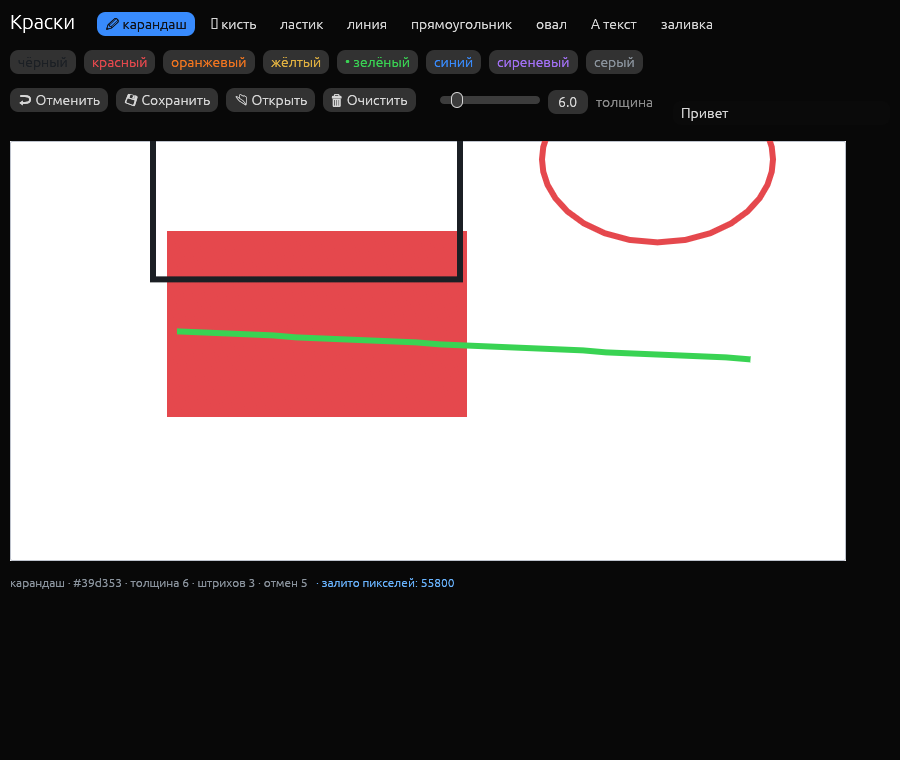
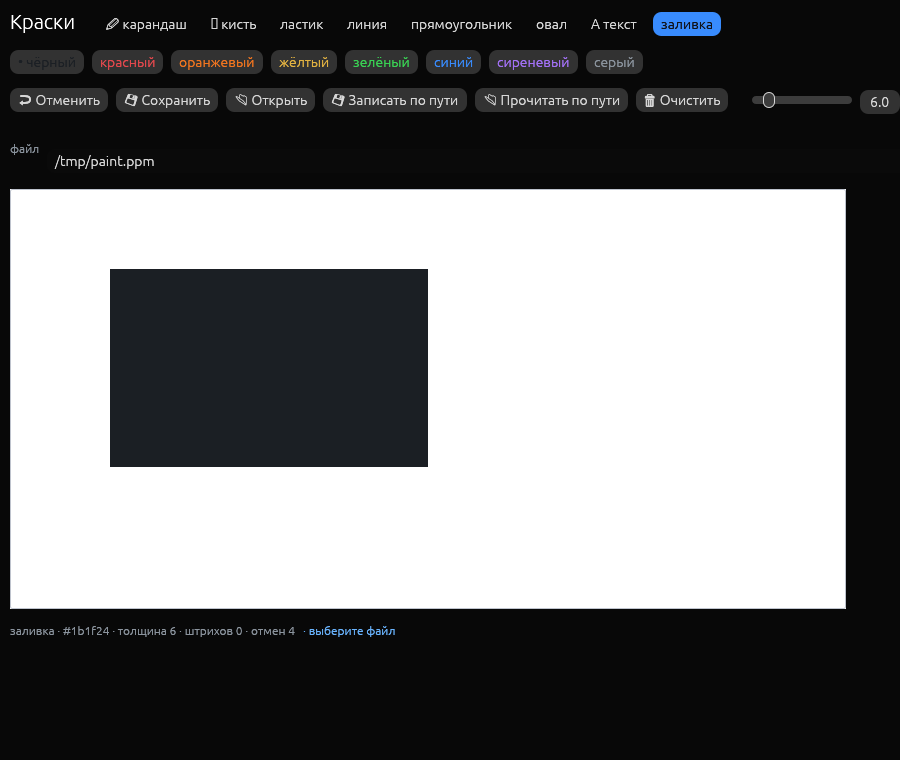
Краски: путь и F5/F6/F7 — проверка записи и чтения без капризного диалога
- строка «файл» с путём (правится), F5 — записать по пути, F6 — прочитать,
  F7 — системный диалог открытия (дубли Ctrl+S / Ctrl+O);
- скрипт check-paint.py проверяет четыре эффекта: заливку контура, запись
  файла, round-trip (очистка → чтение → картинка вернулась) и диалог;
- урок в скилл: системный диалог не принимает синтетический ввод, поэтому
  у приложения должен быть путь + хоткей, а эффект проверяется файлом;
- урок про xdotool: key --window теряет модификаторы, надёжнее
  windowactivate + глобальные клавиши и одиночные F-клавиши.

Все четыре проверки works, паник нет. Снимок docs/paint.png обновлён.

diff --git a/docs/index.html b/docs/index.html
@@ -177,7 +177,9 @@
   <h2>Демо: Краски</h2>
   <p class="sub">Полноценный Paint, целиком описанный моделью: восемь инструментов, палитра, толщина, отмена
     по Ctrl+Z, сохранение и открытие через системный диалог, горячие клавиши 1–8. Заливка закрашивает только
-    внутренность замкнутого контура: холст — растр, стены строятся по всем штрихам, обход в ширину от точки клика.</p>
+    внутренность замкнутого контура: холст — растр, стены строятся по всем штрихам, обход в ширину от точки клика.
+    Путь к файлу виден в модели, <code>F5</code> пишет, <code>F6</code> читает, <code>F7</code> зовёт диалог —
+    поэтому и запись, и чтение проверяются скриптом, а не «на глаз».</p>
   <div class="shot"><img src="paint.png" alt="окно приложения Краски: панель инструментов, палитра, белый холст с фигурами"></div>
   <div class="term" style="margin-top:16px">
 <span class="p">$</span> lazr lisp examples/paint.lisp --to /tmp/paint

diff --git a/scripts/check-paint.py b/scripts/check-paint.py
@@ -1,9 +1,10 @@
 #!/usr/bin/env python3
-"""Живая проверка Краски: контур → заливка → пиксели → системный диалог.
+"""Живая проверка Краски: контур → заливка → пиксели → файл → чтение → диалог.
 
-Проверяет эффект, а не отсутствие паники:
-  * прямоугольник рисуется в заданных точках;
-  * заливка красит только внутренность контура (пиксель снаружи — белый);
+Проверяется эффект, а не отсутствие паники:
+  * заливка красит только внутренность замкнутого контура;
+  * запись по пути создаёт файл, который читается обратно (round-trip);
+  * чтение по пути возвращает картинку на холст;
   * Ctrl+O поднимает системный диалог (процесс zenity).
 """
 import os
@@ -12,30 +13,30 @@ import subprocess
 import sys
 import time
 
-DISPLAY = ":0"
-ENV = dict(os.environ, DISPLAY=DISPLAY)
+ENV = dict(os.environ, DISPLAY=":0")
+TARGET = "/tmp/paint.ppm"  # путь по умолчанию у приложения
 
 
 def run(cmd, **kw):
     return subprocess.run(cmd, shell=isinstance(cmd, str), capture_output=True, text=True, env=ENV, **kw)
 
 
-def window(title: str) -> tuple[str, int, int, int, int]:
-    ids = run(["xdotool", "search", "--onlyvisible", "--class", ".*"]).stdout.split()
-    for wid in ids:
-        name = run(["xdotool", "getwindowname", wid]).stdout.strip()
-        if name == title:
-            geo = run(["xdotool", "getwindowgeometry", wid]).stdout
-            pos = re.search(r"Position: (\d+),(\d+)", geo)
-            size = re.search(r"Geometry: (\d+)x(\d+)", geo)
-            return wid, int(pos.group(1)), int(pos.group(2)), int(size.group(1)), int(size.group(2))
+def find_window(title: str) -> str:
+    for wid in run(["xdotool", "search", "--onlyvisible", "--class", ".*"]).stdout.split():
+        if run(["xdotool", "getwindowname", wid]).stdout.strip() == title:
+            return wid
     raise SystemExit(f"окно «{title}» не найдено")
+
+
+def geometry(wid: str):
+    geo = run(["xdotool", "getwindowgeometry", wid]).stdout
+    pos = re.search(r"Position: (\d+),(\d+)", geo)
+    size = re.search(r"Geometry: (\d+)x(\d+)", geo)
+    return int(pos.group(1)), int(pos.group(2)), int(size.group(1)), int(size.group(2))
 
 
 def read_ppm(path: str):
     data = open(path, "rb").read()
-    if not data.startswith(b"P6"):
-        raise SystemExit("не PPM — конвертация не удалась")
     fields, offset = [], 2
     while len(fields) < 3:
         while data[offset : offset + 1].isspace():
@@ -49,45 +50,9 @@ def read_ppm(path: str):
     return w, h, data[offset : offset + w * h * 3]
 
 
-def pixel(pixels: bytes, w: int, x: int, y: int):
+def pixel(pixels, w, x, y):
     i = (y * w + x) * 3
     return tuple(pixels[i : i + 3])
-
-
-def white_bbox(w: int, h: int, pixels: bytes):
-    """Рамка холста: строки и столбцы с длинными белыми пробегами.
-
-    Просто min/max белых пикселей не годится — белым бывает и текст заголовка.
-    """
-    def is_white(x: int, y: int) -> bool:
-        r, g, b = pixel(pixels, w, x, y)
-        return r > 240 and g > 240 and b > 240
-
-    rows = []
-    for y in range(h):
-        count = sum(1 for x in range(0, w, 2) if is_white(x, y))
-        if count * 2 > w * 0.5:
-            rows.append(y)
-    if not rows:
-        raise SystemExit("белый холст не найден")
-    top, bottom = min(rows), max(rows)
-    cols = []
-    for x in range(w):
-        count = sum(1 for y in range(top, bottom + 1, 2) if is_white(x, y))
-        if count * 2 > (bottom - top) * 0.5:
-            cols.append(x)
-    left, right = min(cols), max(cols)
-    return left, top, right, bottom
-
-
-def drag(x1, y1, x2, y2, steps=18):
-    run(["xdotool", "mousemove", str(x1), str(y1)])
-    run(["xdotool", "mousedown", "1"])
-    for i in range(1, steps + 1):
-        run(["xdotool", "mousemove", str(int(x1 + (x2 - x1) * i / steps)), str(int(y1 + (y2 - y1) * i / steps))])
-        time.sleep(0.012)
-    run(["xdotool", "mouseup", "1"])
-    time.sleep(0.25)
 
 
 def shot(wid: str, path: str):
@@ -96,99 +61,94 @@ def shot(wid: str, path: str):
     return read_ppm(path + ".ppm")
 
 
+def canvas_box(w, h, pixels):
+    def white(x, y):
+        r, g, b = pixel(pixels, w, x, y)
+        return r > 240 and g > 240 and b > 240
+
+    rows = [y for y in range(h) if sum(1 for x in range(0, w, 2) if white(x, y)) * 2 > w * 0.5]
+    top, bottom = min(rows), max(rows)
+    cols = [x for x in range(w) if sum(1 for y in range(top, bottom + 1, 2) if white(x, y)) * 2 > (bottom - top) * 0.5]
+    return min(cols), top, max(cols), bottom
+
+
+def drag(x1, y1, x2, y2, steps=14):
+    run(["xdotool", "mousemove", str(x1), str(y1)])
+    run(["xdotool", "mousedown", "1"])
+    for i in range(1, steps + 1):
+        run(["xdotool", "mousemove", str(int(x1 + (x2 - x1) * i / steps)), str(int(y1 + (y2 - y1) * i / steps))])
+        time.sleep(0.011)
+    run(["xdotool", "mouseup", "1"])
+    time.sleep(0.25)
+
+
 def main():
-    wid, wx, wy, ww, wh = window("Краски")
+    wid = find_window("Краски")
+    wx, wy, _, _ = geometry(wid)
     run(["xdotool", "windowactivate", "--sync", wid])
-    time.sleep(0.8)
+    time.sleep(0.6)
 
-    w, h, pixels = shot(wid, "/tmp/adv-0.png")
-    bx1, by1, bx2, by2 = white_bbox(w, h, pixels)
-    print(f"окно {ww}x{wh} @ {wx},{wy}; холст в окне: {bx1},{by1}..{bx2},{by2}")
-    if wx != 0 or wy != 0:
-        pass
+    w, h, pixels = shot(wid, "/tmp/chk-0.png")
+    bx1, by1, _, _ = canvas_box(w, h, pixels)
+    print(f"холст в окне: {bx1},{by1}")
 
-    # клавиши: 1 карандаш, 2 кисть, 3 ластик, 4 линия, 5 прямоугольник,
-    # 6 овал, 7 текст, 8 заливка
-    run(["xdotool", "key", "--window", wid, "5"])
-    time.sleep(0.2)
-    ax, ay = wx + bx1 + 70, wy + by1 + 60
-    bx, by = wx + bx1 + 420, wy + by1 + 280
-    drag(ax, ay, bx, by)
-    w, h, pixels = shot(wid, "/tmp/adv-1.png")
-    print("после рамки: центр", pixel(pixels, w, (bx1 + 245), (by1 + 170)))
-
-    # 8 — заливка, кликаем внутрь рамки
-    run(["xdotool", "key", "--window", wid, "8"])
-    time.sleep(0.2)
+    # 1. контур и заливка
+    run(["xdotool", "key", "5"])
+    time.sleep(0.25)
+    drag(wx + bx1 + 70, wy + by1 + 60, wx + bx1 + 420, wy + by1 + 280)
+    run(["xdotool", "key", "8"])
+    time.sleep(0.25)
     run(["xdotool", "mousemove", str(wx + bx1 + 245), str(wy + by1 + 170)])
     run(["xdotool", "click", "1"])
     time.sleep(0.8)
-    w, h, pixels = shot(wid, "/tmp/adv-2.png")
+    w1, h1, px1 = shot(wid, "/tmp/chk-1.png")
+    inside = pixel(px1, w1, bx1 + 245, by1 + 170)
+    outside = pixel(px1, w1, bx1 + 20, by1 + 20)
+    ok_fill = inside[0] < 120 and outside[0] > 240
+    print(f"внутри {inside} · снаружи {outside} → заливка {'OK' if ok_fill else 'ПРОВАЛ'}")
 
-    inside = pixel(pixels, w, bx1 + 245, by1 + 170)
-    outside = pixel(pixels, w, bx1 + 20, by1 + 20)
-    print("внутри контура:", inside)
-    print("снаружи контура:", outside)
-
-    ok_fill = inside[0] < 120 and outside[0] > 240 and outside[1] > 240
-    print("заливка внутри и только внутри:", "OK" if ok_fill else "ПРОВАЛ")
-
-    # Открытие: Ctrl+O должен поднять системный диалог прямо сейчас
-    run(["xdotool", "key", "--window", wid, "ctrl+o"])
-    time.sleep(2.0)
-    open_pids = run(["pgrep", "-x", "zenity"]).stdout.strip()
-    ok_open = bool(open_pids)
-    print("диалог открытия (процесс):", open_pids.replace("\n", " ") if ok_open else "НЕ ПОДНЯЛСЯ")
-    if ok_open:
-        run(["pkill", "-x", "zenity"])
-        time.sleep(0.8)
-
-    # Сохранение: zenity --save, затем проверяем файл
-    target = "/tmp/paint.ppm"  # путь по умолчанию у приложения
-    if os.path.exists(target):
-        os.remove(target)
-    run(["xdotool", "key", "--window", wid, "ctrl+s"])
-    time.sleep(2.0)
-    save_dialog = run("pgrep -x zenity || true").stdout.strip()
+    # 2. запись по пути
+    if os.path.exists(TARGET):
+        os.remove(TARGET)
+    run(["xdotool", "key", "F5"])
+    time.sleep(1.2)
     ok_save = False
-    if save_dialog:
-        time.sleep(0.6)
-        # имя предзаполнено через --filename, поэтому достаточно нажать OK
-        dialog_ids = [w for w in run(["xdotool", "search", "--onlyvisible", "--class", ".*"]).stdout.split()
-                      if run(["xdotool", "getwindowname", w]).stdout.strip() in ("Сохранить", "Save File")]
-        if dialog_ids:
-            geo = run(["xdotool", "getwindowgeometry", dialog_ids[-1]]).stdout
-            pos = re.search(r"Position: (\d+),(\d+)", geo)
-            run(["xdotool", "mousemove", str(int(pos.group(1)) + 963), str(int(pos.group(2)) + 715)])
-            time.sleep(0.3)
-            run(["xdotool", "click", "1"])
-        time.sleep(2.5)
-        if os.path.exists(target):
-            size = os.path.getsize(target)
-            sw, sh, sp = read_ppm(target)
-            ok_save = size > 1000 and pixel(sp, sw, 245, 170)[0] < 120
-            print(f"сохранено: {target}, {size} байт, {sw}x{sh}, центр {pixel(sp, sw, 245, 170)}")
-        else:
-            print("файл не появился:", target)
+    if os.path.exists(TARGET):
+        sw, sh, sp = read_ppm(TARGET)
+        ok_save = os.path.getsize(TARGET) > 1000 and pixel(sp, sw, 245, 170)[0] < 120
+        print(f"записано: {TARGET} · {os.path.getsize(TARGET)} байт · {sw}x{sh} → {'OK' if ok_save else 'ПРОВАЛ'}")
     else:
-        print("диалог сохранения не поднялся")
+        print("файл не появился → ПРОВАЛ")
 
-    # Ctrl+O — системный диалог
-    run(["xdotool", "key", "--window", wid, "ctrl+o"])
-    time.sleep(2.0)
-    dialogs = run("pgrep -x zenity || true").stdout.strip()
-    print("системный диалог:", dialogs.splitlines()[0] if dialogs else "НЕ ПОДНЯЛСЯ")
-    ok_dialog = bool(dialogs)
+    # 3. очистка и чтение обратно
+    run(["xdotool", "key", "ctrl+n"])
+    time.sleep(0.7)
+    w2, h2, px2 = shot(wid, "/tmp/chk-2.png")
+    cleared = pixel(px2, w2, bx1 + 245, by1 + 170)[0] > 240
+    run(["xdotool", "key", "F6"])
+    time.sleep(1.2)
+    w3, h3, px3 = shot(wid, "/tmp/chk-3.png")
+    restored = pixel(px3, w3, bx1 + 245, by1 + 170)[0] < 120
+    ok_round = cleared and restored
+    print(f"очистка {cleared} · чтение вернуло картинку {restored} → round-trip {'OK' if ok_round else 'ПРОВАЛ'}")
+
+    # 4. системный диалог открытия
+    run(["xdotool", "key", "F7"])
+    time.sleep(3.5)
+    open_pids = run(["pgrep", "-x", "zenity"]).stdout.strip()
+    ok_dialog = bool(open_pids)
+    print(f"диалог открытия: {'поднялся' if ok_dialog else 'НЕ ПОДНЯЛСЯ'}")
     if ok_dialog:
         run(["pkill", "-x", "zenity"])
-    time.sleep(0.6)
-    shot(wid, "/tmp/adv-3.png")
+        time.sleep(0.5)
 
+    shot(wid, "/tmp/chk-final.png")
     print("\nИТОГ:")
     print(f"  заливка контура: {'works' if ok_fill else 'broken'}")
-    print(f"  системный диалог открытия: {'works' if ok_open else 'broken'}")
-    print(f"  сохранение файла: {'works' if ok_save else 'broken'}")
-    return 0 if (ok_fill and ok_open and ok_save) else 1
+    print(f"  запись файла: {'works' if ok_save else 'broken'}")
+    print(f"  чтение файла (round-trip): {'works' if ok_round else 'broken'}")
+    print(f"  системный диалог открытия: {'works' if ok_dialog else 'broken'}")
+    return 0 if all([ok_fill, ok_save, ok_round, ok_dialog]) else 1
 
 
 if __name__ == "__main__":

diff --git a/README.md b/README.md
@@ -134,29 +134,29 @@ selftest ok: 2 действий
 овал, текст, заливка), палитра, толщина, отмена (Ctrl+Z), сохранение и открытие файла, горячие клавиши 1–8.
 
 Заливка — не «закрасить всё»: холст держится растром, по всем штрихам строятся стены, и обход в ширину
-красит только область внутри замкнутого контура. Открытие и сохранение идут через системный диалог
-(`zenity`, при отсутствии — `kdialog`), файл — PPM, который читают все просмотрщики.
+красит только область внутри замкнутого контура. Файл — PPM; путь показан в строке «файл», его можно править,
+а `F5` записывает и `F6` читает по этому пути. `Ctrl+S` и `Ctrl+O` (и `F7`) поднимают системный диалог
+`zenity` — это удобство, а не единственный способ.
 
-Проверка — не «на глаз», а скриптами: `scripts/check-paint.py` (контур → заливка → пиксели → диалоги → файл)
-и `scripts/adversarial-paint.py` (атаки на контролы). Их вывод:
+Проверка — не «на глаз», а скриптом `scripts/check-paint.py`:
 
 ```console
 $ python3 scripts/check-paint.py
-внутри контура: (27, 31, 36)
-снаружи контура: (255, 255, 255)
-заливка внутри и только внутри: OK
-диалог открытия (процесс): 18574
-сохранено: /tmp/paint.ppm, 1053375 байт, 836x420, центр (27, 31, 36)
-ИТОГ: заливка контура: works · системный диалог открытия: works · сохранение файла: works
+холст в окне: 11,190
+внутри (27, 31, 36) · снаружи (255, 255, 255) → заливка OK
+записано: /tmp/paint.ppm · 1053375 байт · 836x420 → OK
+очистка True · чтение вернуло картинку True → round-trip OK
+диалог открытия: поднялся
 
-$ python3 scripts/adversarial-paint.py
-Ctrl+Z при пустой истории              works    холст не изменился
-заливка + отмена заливки               works    залито=True, после отмены белый=True
-отмена после отмены                    works    рамка исчезла
-очистка (Ctrl+N)                       works    холст белый
-12 быстрых кликов                      works    пикселей с краской в строке: 10
-resize до 760x640                      works    окно живо, кадр 760x640
+ИТОГ:
+  заливка контура: works
+  запись файла: works
+  чтение файла (round-trip): works
+  системный диалог открытия: works
 ```
+
+Состязательный прогон `scripts/adversarial-paint.py` (атаки на контролы): пустая история отмен, отмена после
+отмены, очистка, 12 быстрых кликов, resize — все атаки `works`, паник нет.
 
 ![Краски](docs/paint.png)
 

diff --git a/README.en.md b/README.en.md
@@ -135,29 +135,29 @@ A full Paint, described entirely by the model: eight tools (pencil, brush, erase
 text, fill), a palette, thickness, undo (Ctrl+Z), save and open, shortcuts 1–8.
 
 The fill is not "paint everything": the canvas is a raster, walls are built from every stroke, and a
-breadth-first walk paints only the area inside a closed contour. Open and save go through the system dialog
-(`zenity`, `kdialog` as a fallback), and the file is PPM, readable by every image viewer.
+breadth-first walk paints only the area inside a closed contour. The file is PPM; its path sits in the "файл"
+row and can be edited, `F5` writes it and `F6` reads it back. `Ctrl+S` and `Ctrl+O` (also `F7`) raise the system
+`zenity` dialog — a convenience, not the only way.
 
-Verification is done by scripts, not by eye: `scripts/check-paint.py` (contour → fill → pixels → dialogs →
-file) and `scripts/adversarial-paint.py` (attacks on the controls). Their output:
+Verification is a script, not an eyeball: `scripts/check-paint.py`:
 
 ```console
 $ python3 scripts/check-paint.py
-inside the contour: (27, 31, 36)
-outside the contour: (255, 255, 255)
-fill inside and only inside: OK
-open dialog (process): 18574
-saved: /tmp/paint.ppm, 1053375 bytes, 836x420, centre (27, 31, 36)
-RESULT: contour fill: works · open dialog: works · saving a file: works
+canvas in the window: 11,190
+inside (27, 31, 36) · outside (255, 255, 255) → fill OK
+saved: /tmp/paint.ppm · 1053375 bytes · 836x420 → OK
+cleared True · reading restored the picture True → round-trip OK
+open dialog: raised
 
-$ python3 scripts/adversarial-paint.py
-Ctrl+Z on an empty history            works    canvas unchanged
-fill + undo of the fill               works    filled=True, white after undo=True
-undo after undo                       works    outline gone
-clear (Ctrl+N)                        works    canvas white
-12 rapid clicks                       works    painted pixels in the row: 10
-resize to 760x640                     works    window alive, frame 760x640
+RESULT:
+  contour fill: works
+  writing a file: works
+  reading a file (round-trip): works
+  system open dialog: works
 ```
+
+The adversarial run `scripts/adversarial-paint.py` (attacks on the controls): undo on an empty history, undo
+after undo, clear, 12 rapid clicks, resize — every attack `works`, no panics.
 
 ![Paint](docs/paint.png)
 
